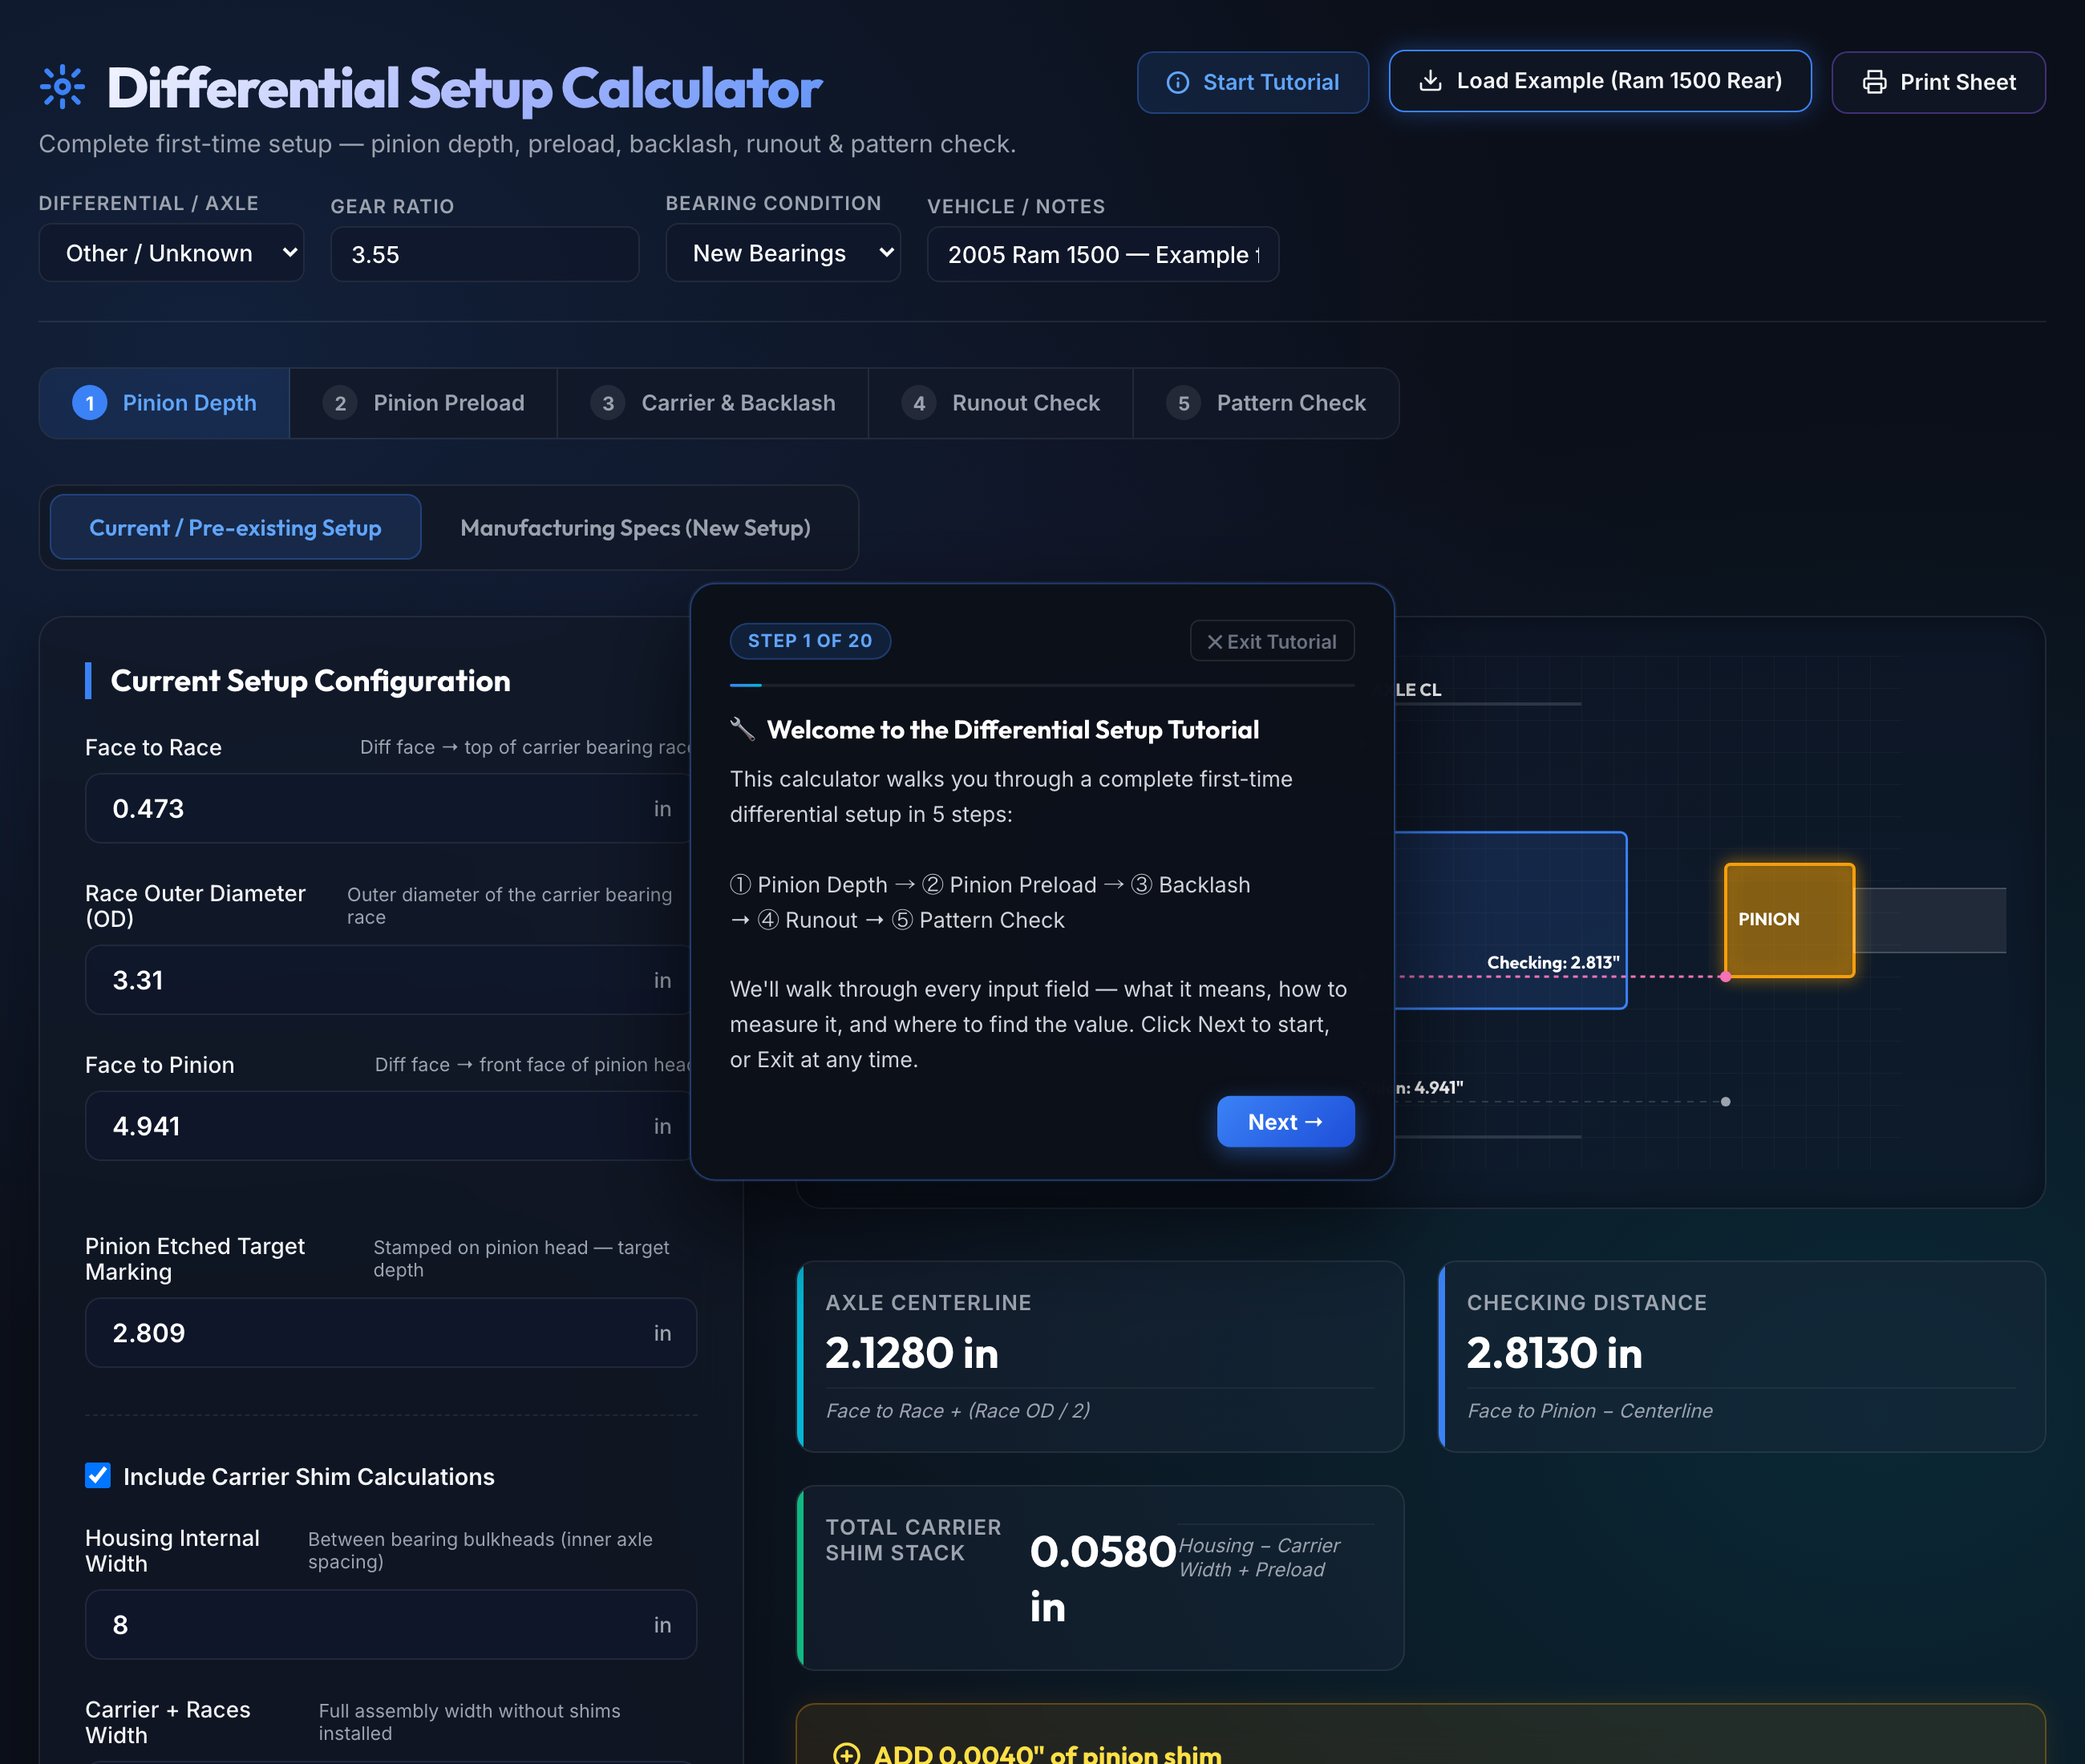
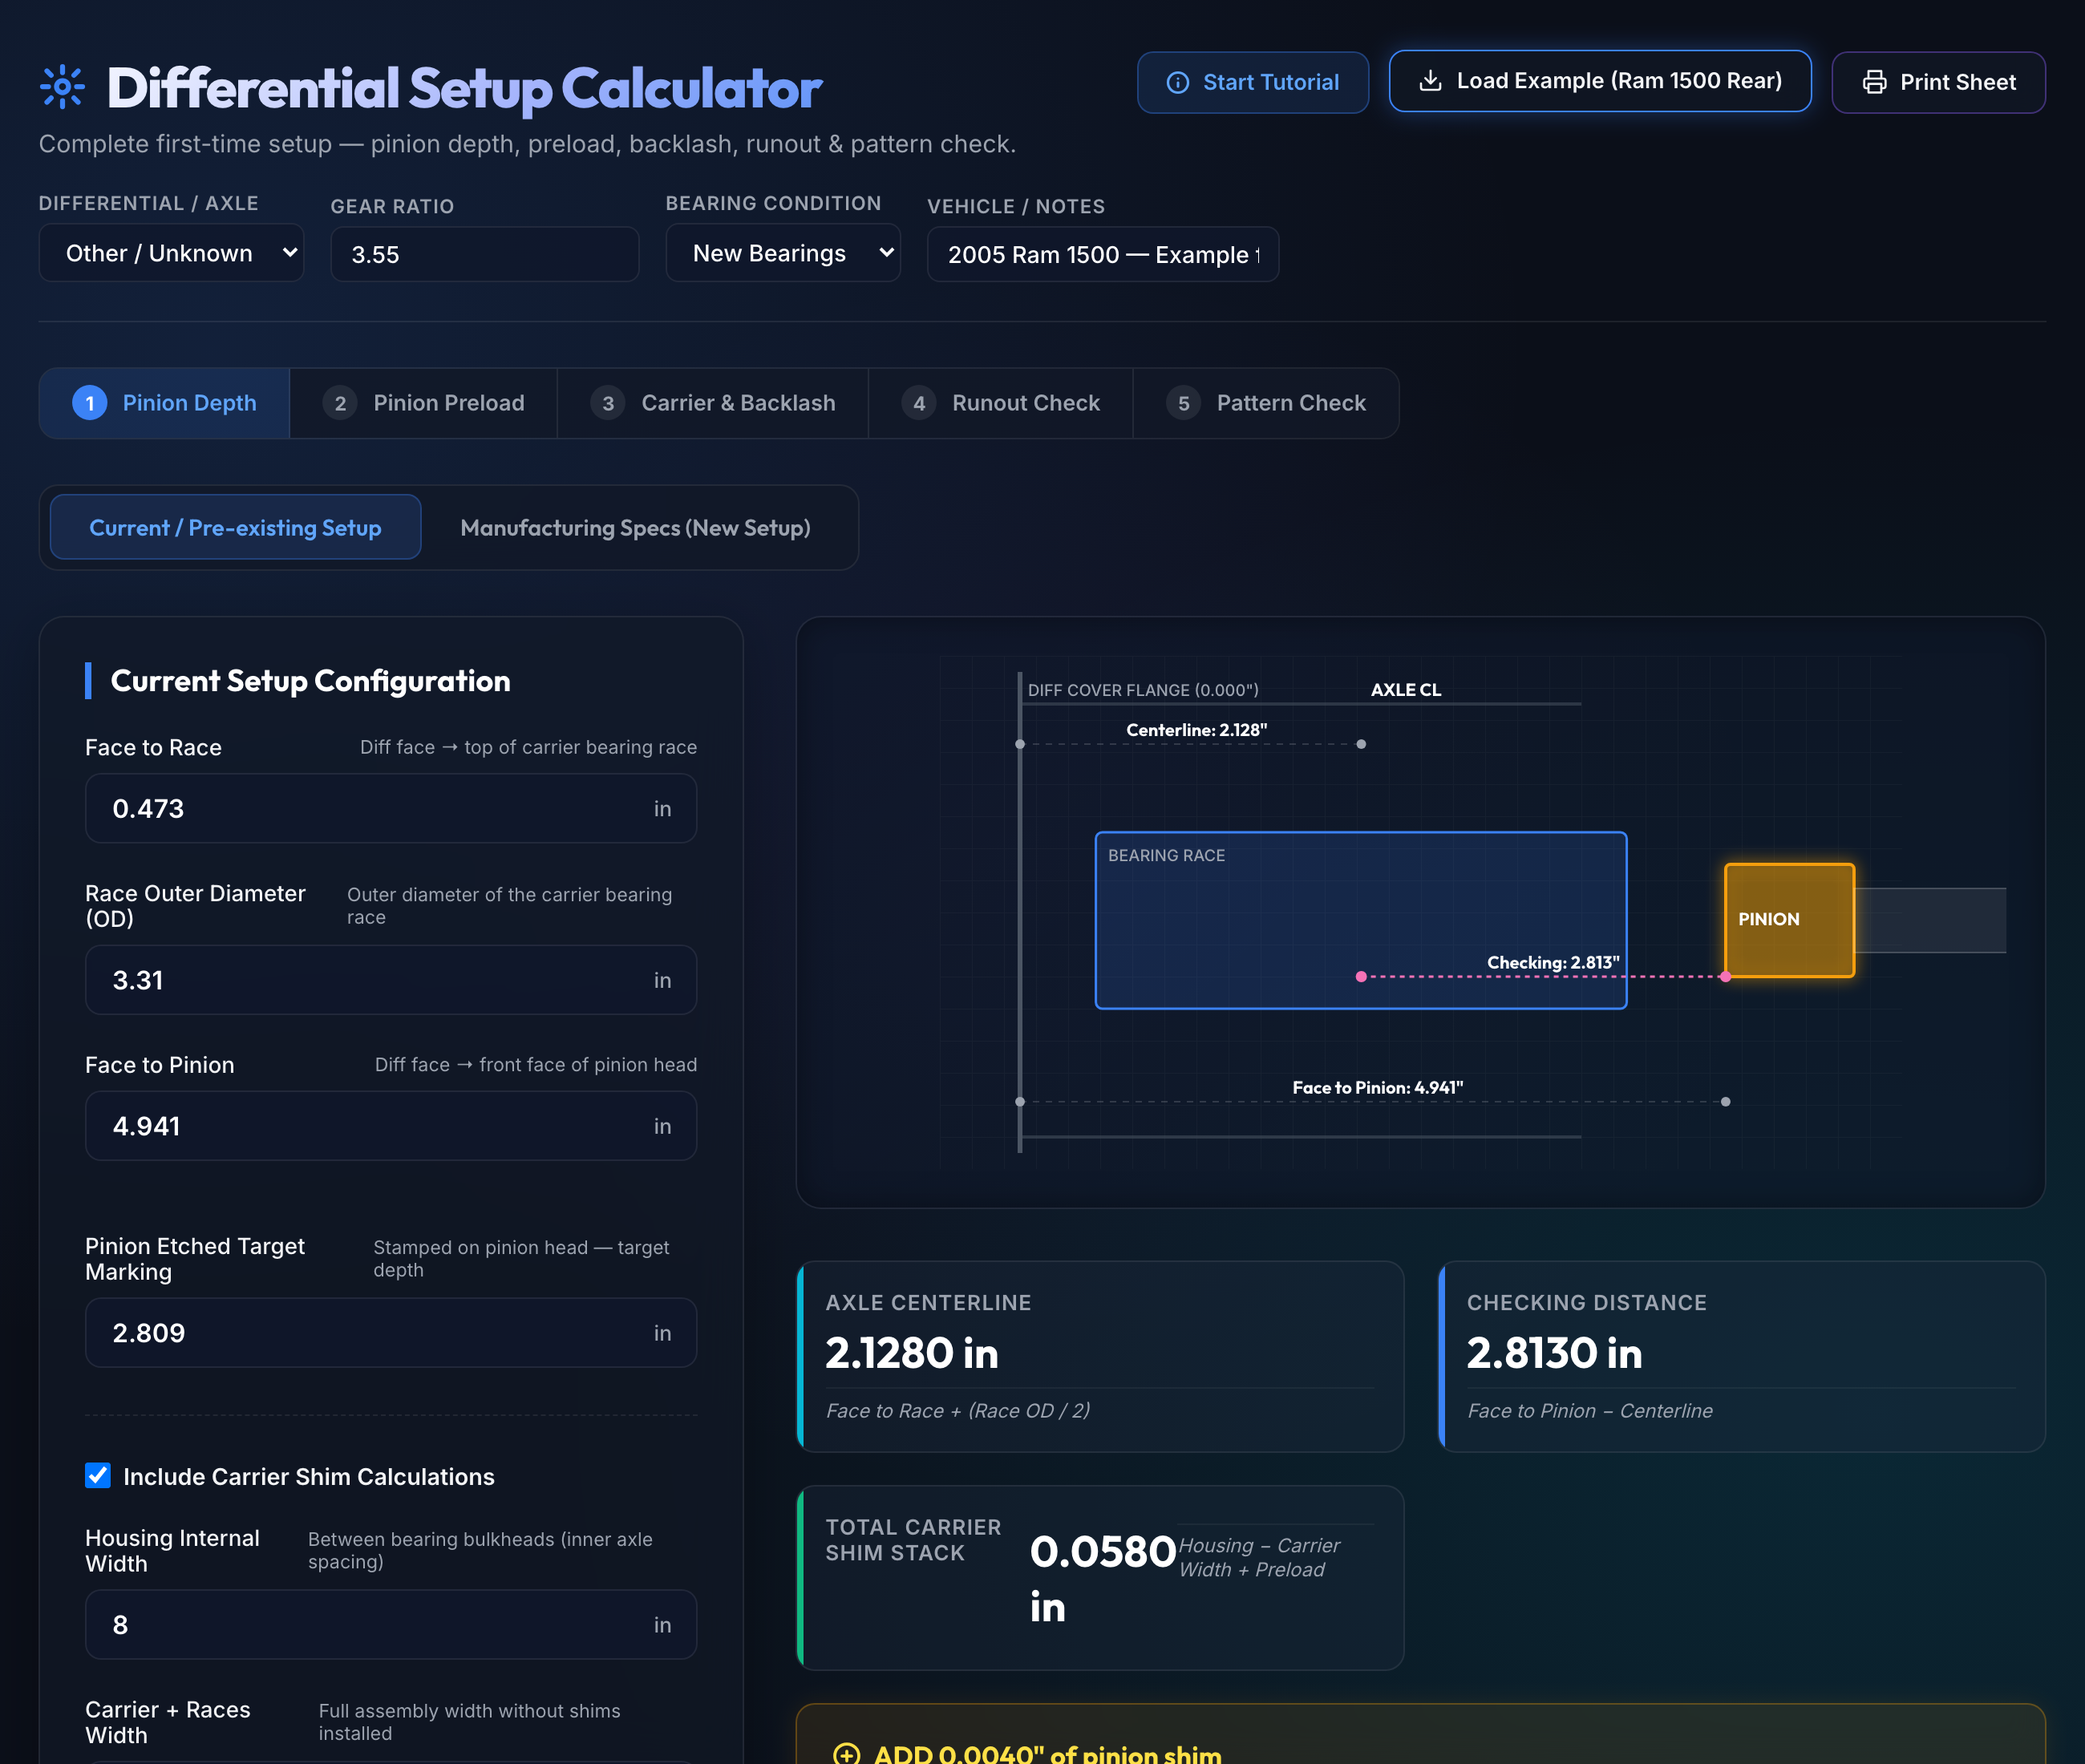
Add tutorial information to README

diff --git a/README.md b/README.md
@@ -31,6 +31,7 @@
 - **Ring Gear Runout Checker**: Diagnoses dial indicator Total Indicated Runout (TIR) values and recommends when to reseat or inspect flange surfaces.
 - **Marking Compound Pattern Guide**: Built-in visual cards indicating ideal contact patterns, deep patterns, shallow patterns, and backlash effects, with recommended shim corrections.
 - **Printable Garage Sheet**: Responsive CSS styling formatted for print, letting you print a clean build sheet directly from the browser to keep in the workshop.
+- **Interactive Setup Tutorial**: Includes an auto-launching step-by-step walkthrough tour that guides the user through the input fields, SVG diagram, shimming logic, and calibration tools.
 
 ---
 
@@ -45,6 +46,7 @@
 ### Option 1 — In the Browser (Recommended)
 1. Double-click **`launch.command`** (macOS) or open **`index.html`** directly in any modern browser.
 2. If macOS blocks the `.command` launcher, right-click it, select **Open**, and confirm.
+3. **Interactive Setup Walkthrough**: When first launched, the app automatically starts an interactive step-by-step tutorial tour guiding you through the setup sequence. You can re-trigger this tour at any time by clicking the **Start Tutorial** button in the header.
 
 ### Option 2 — In the Console (Python CLI)
 The calculator includes a fully featured command-line version in Python.
